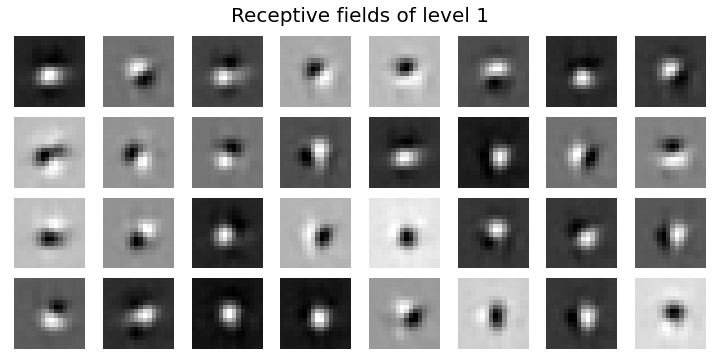
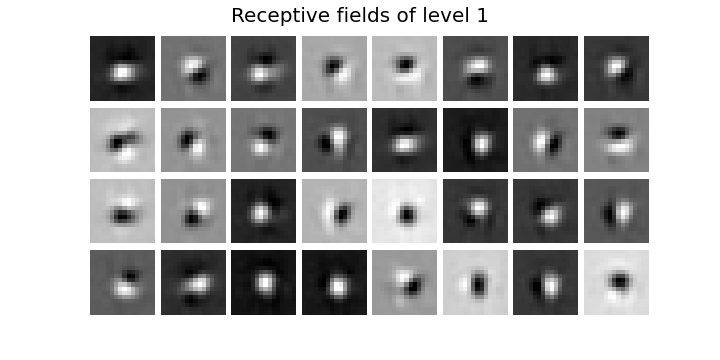
Update

diff --git a/train.py b/train.py
@@ -113,12 +113,12 @@ plt.show()
 
 # Plot Receptive fields of level 1
 fig = plt.figure(figsize=(10, 5))
+plt.subplots_adjust(hspace=0.1, wspace=0.1)
 for i in range(32):
     plt.subplot(4, 8, i+1)
     plt.imshow(np.reshape(model.U[:, i], (16, 16)), cmap="gray")
     plt.axis("off")
 
-plt.tight_layout()
 fig.suptitle("Receptive fields of level 1", fontsize=20)
 plt.subplots_adjust(top=0.9)
 plt.savefig("RF_level1.png")
@@ -133,12 +133,12 @@ U_ = np.concatenate((U1, U2, U3), axis = 1)
 Uh_ = U_ @ model.Uh  
 
 fig = plt.figure(figsize=(10, 5))
+plt.subplots_adjust(hspace=0.1, wspace=0.1)
 for i in range(24):
     plt.subplot(4, 6, i+1)
     plt.imshow(np.reshape(Uh_[:, i], (16, 26), order='F'), cmap="gray")
     plt.axis("off")
 
-plt.tight_layout()
 fig.suptitle("Receptive fields of level 2", fontsize=20)
 plt.subplots_adjust(top=0.9)
 plt.savefig("RF_level2.png")
